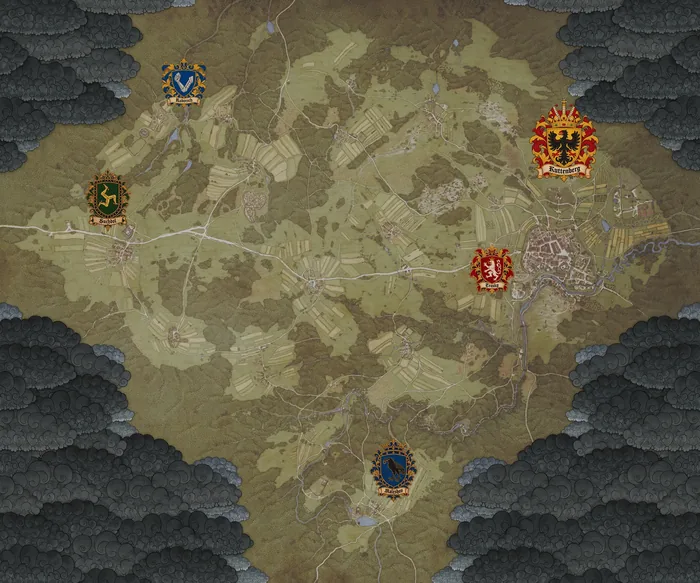
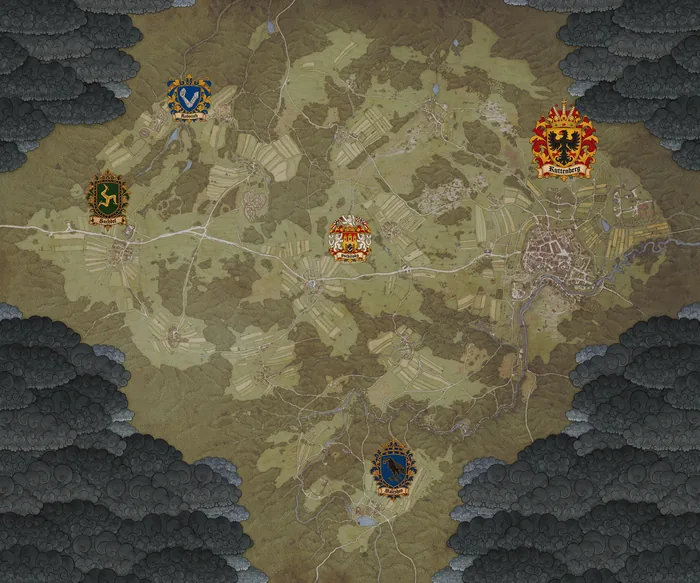
att

Changed region(s): [[0.21, 0.0926, 0.3, 0.2161], [0.66, 0.4014, 0.75, 0.5249], [0.45, 0.3705, 0.54, 0.4631]]

diff --git a/src/app/content/pitch.ts b/src/app/content/pitch.ts
@@ -76,49 +76,52 @@ export const PILLARS: readonly Pillar[] = [
     medium: 'pilar-oficio-1280.webp',
     small: 'pilar-oficio-720.webp',
     width: 2200,
-    height: 1238,
-    position: '50% 50%',
-    alt: 'Ferreiro martelando uma lâmina incandescente na bigorna',
+    height: 1208,
+    // The two riders stand in the left half of the painting; the tree and the far castle on its right are what is cut when the stage is nearly square.
+    position: '12% 50%',
+    alt: 'Dois cavaleiros de armadura galopando por uma estrada de terra sob nuvens de tempestade, com um pássaro no céu e um castelo ao longe',
   },
   {
     id: 'familia',
     label: 'II · Uma família',
     title: 'Funde uma linhagem',
     text: 'Case, tenha herdeiros, adote, reconheça um bastardo. A sua árvore cresce por gerações e herda terras, títulos e inimigos.',
-    large: 'pilar-familia-1920.webp',
+    large: 'pilar-familia-2200.webp',
     medium: 'pilar-familia-1280.webp',
     small: 'pilar-familia-720.webp',
-    // A panorama (2.43 : 1): the three riders stand between a quarter and seven tenths of its width.
-    width: 1920,
-    height: 790,
-    position: '48% 50%',
-    alt: 'Jogadores cavalgando juntos numa estrada de terra entre campos e floresta',
+    // The woman stands at about a third of the painting's width and the knight at the door at four fifths: a nearly square stage keeps both when it is held to the right.
+    width: 2200,
+    height: 1232,
+    position: '86% 50%',
+    alt: 'Uma mulher de vestido vermelho junto à janela, de olhos baixos, enquanto um cavaleiro de armadura deixa o quarto pela porta',
   },
   {
     id: 'teto',
     label: 'III · Um teto',
     title: 'Erga o que é seu',
     text: 'Casas, oficinas e castelos, com portas e baús que só abrem para quem você escolher. O cavalo e a carroça esperam onde você os deixou.',
-    large: 'pilar-teto-1920.webp',
+    large: 'pilar-teto-2200.webp',
     medium: 'pilar-teto-1280.webp',
     small: 'pilar-teto-720.webp',
-    width: 1920,
-    height: 1080,
-    position: '50% 50%',
-    alt: 'Kuttenberg vista do vale, com telhados, muralhas e torres na neblina',
+    width: 2200,
+    height: 1249,
+    // The two towers and the gate stand between a sixth and four fifths of the painting's width.
+    position: '36% 50%',
+    alt: 'Besteiros diante da muralha de um castelo, com uma torre rachada, outra de madeira e um portão de tábuas sob um céu cinzento',
   },
   {
     id: 'coroa',
     label: 'IV · Uma coroa',
     title: 'Escolha um lado',
     text: 'Duas facções disputam o reino, o Leão e o Corvo. Jurar lealdade é escolher um lado, e a escolha não tem volta.',
-    large: 'pilar-coroa-2200.webp',
+    large: 'pilar-coroa-1920.webp',
     medium: 'pilar-coroa-1280.webp',
     small: 'pilar-coroa-720.webp',
-    width: 2200,
-    height: 1255,
-    position: '50% 50%',
-    alt: 'Duelo de cavaleiros num pátio de castelo, observado pela nobreza',
+    // A banner (3 : 1): the two fighters stand in its left half, so a nearly square stage is held to the left.
+    width: 1920,
+    height: 636,
+    position: '10% 50%',
+    alt: 'Duelo entre um guerreiro cumano de escudo vermelho e um cavaleiro de armadura, entre poeira e nuvens',
   },
 ];
 
@@ -131,24 +134,24 @@ export const SHOTS: readonly Shot[] = [
     small: 'galeria-floresta-720.webp',
     sizes: '(max-width: 60rem) 100vw, 800px',
     width: 1600,
-    height: 900,
-    alt: 'Besta apontada para um cervo numa floresta enevoada',
+    height: 895,
+    alt: 'Um cavaleiro de armadura descansa sob uma grande árvore, com a espada ao lado, e um corvo pousa no escudo de um soldado caído na relva',
     caption: 'Florestas',
     text: 'A floresta alimenta quem sabe ler os seus rastros.',
     position: '50% 50%',
   },
   {
-    id: 'mercado',
-    large: 'galeria-mercado-1600.webp',
-    medium: 'galeria-mercado-1200.webp',
-    small: 'galeria-mercado-720.webp',
+    id: 'estrada',
+    large: 'galeria-estrada-1600.webp',
+    medium: 'galeria-estrada-1200.webp',
+    small: 'galeria-estrada-720.webp',
     // The frame is 4 : 5 (519 x 649 on a desktop): the picture fills it by its height, so it is drawn about 1160 px wide, and on a phone twice the screen's width.
     sizes: '(max-width: 60rem) 200vw, 1160px',
     width: 1600,
-    height: 900,
-    alt: 'Praça de mercado ao entardecer com barracas e casas de fachada gótica',
-    caption: 'Mercados',
-    text: 'Todo boato tem dono, e preço.',
-    position: '40% 50%',
+    height: 883,
+    alt: 'Uma carroça coberta segue por uma estrada de terra ao entardecer, entre muros de pedra, com ruínas sobre um morro no horizonte',
+    caption: 'Estradas',
+    text: 'Toda estrada tem dono, e preço.',
+    position: '78% 50%',
   },
 ];

diff --git a/src/app/content/join.ts b/src/app/content/join.ts
@@ -23,6 +23,6 @@ export const JOIN_STEPS: readonly Step[] = [
   {
     numeral: '03',
     title: 'Nasça plebeu.',
-    text: 'Crie seu personagem e escolha onde nasce: os Leões, em Suchdol, ou os Corvos, em Malešov. Depois procure um escrivão ou um mestre de ofício: é ele quem cede a sua guilda.',
+    text: 'Crie seu personagem e escolha onde nasce: os Leões, em Suchdol, ou os Corvos, em Malešov. Depois vá ao comerciante da guilda que quer, na sua cidade: o primeiro ofício é de graça. Um escrivão ou um mestre de ofício também podem ceder a guilda.',
   },
 ];

diff --git a/src/app/content/content.spec.ts b/src/app/content/content.spec.ts
@@ -36,7 +36,7 @@ describe('content', () => {
   });
 
   it('shows the game in two pictures of its own, each in two sizes with a description and a few words', () => {
-    expect(SHOTS.map((shot) => shot.id)).toEqual(['floresta', 'mercado']);
+    expect(SHOTS.map((shot) => shot.id)).toEqual(['floresta', 'estrada']);
     expect(unique(SHOTS.flatMap((shot) => [shot.large, shot.small]))).toBe(true);
     for (const shot of SHOTS) {
       expect(shot.large).toMatch(/^galeria-[a-z]+-1600\.webp$/);

diff --git a/src/app/sections/lore/lore.html b/src/app/sections/lore/lore.html
@@ -18,7 +18,7 @@
             sizes="(max-width: 60rem) 100vw, 50vw"
             width="1200"
             height="1000"
-            alt="Mapa da região de Kuttenberg com os brasões de Raborsch, Suchdol, Trosky, Kuttenberg e Maleshov"
+            alt="Mapa da região de Kuttenberg com os brasões de Raborsch, Suchdol, Pschitoky, Kuttenberg e Malešov"
             loading="lazy"
             decoding="async"
           />

diff --git a/tools/make-story-images.py b/tools/make-story-images.py
@@ -1,0 +1,77 @@
+"""Builds the pictures of the site's cards from the user's paintings (2026-10-31, the user: "substitua as imagens do site dos cards ... e use essas imagens da pasta nova imagem", and
+then: "era só para substituir as imagens dos cards e texto mesmo, não das imagens de fundo das seções"): the four lines of the realm and the two pictures of the gallery. The pictures
+that stand behind a section (the opening, the way in) and the link card are not touched.
+
+    python tools/make-story-images.py [the folder of the paintings]        (by default ../nova imagem, beside the site)
+
+Which painting stands where is in `SLOTS` below. Each picture is made at the widths the page's `srcset` names (the page picks the smallest that is sharp on the screen): never wider
+than the painting is, so that nothing is stretched. Deterministic: the same paintings give the same files. The old pictures that nothing names any more are deleted at the end (`STALE`).
+The crests, the icons and the map are made by `make-landing-images.py` and `make-map.py`.
+"""
+
+import os
+import sys
+
+from PIL import Image
+
+Image.MAX_IMAGE_PIXELS = None
+
+HERE = os.path.dirname(os.path.abspath(__file__))
+ROOT = os.path.join(HERE, "..")
+IMG = os.path.join(ROOT, "public", "img")
+SRC = sys.argv[1] if len(sys.argv) > 1 else os.path.join(ROOT, "..", "nova imagem")
+
+# name of the files (`<name>-<width>.webp`), the painting, the widths, the quality, and what to cut away first (left, top, right, bottom, in the painting's pixels).
+SLOTS = [
+    # The four lines of the realm, in the order they are told.
+    ("pilar-oficio", "cavalgando.png", [720, 1280, 2200], 88, None),
+    ("pilar-familia", "korand para a guerra.png", [720, 1280, 2200], 88, None),
+    ("pilar-teto", "ataque a suchdol.png", [720, 1280, 2200], 88, None),
+    # The duel was painted as a banner and put on a black 16:9 page: the black is cut away, with the rough edge of the brush (rows 200 to 836 are all picture).
+    ("pilar-coroa", "urik vs cumanos.png", [720, 1280, 1920], 90, (0, 200, 1920, 836)),
+    # The two pictures of the gallery: the wide one first, the tall one beside it.
+    ("galeria-floresta", "erik vs korand.png", [720, 1200, 1600], 88, None),
+    ("galeria-estrada", "ida embora.png", [720, 1200, 1600], 88, None),
+]
+
+# The pictures of the first landing page that no page names now.
+STALE = [
+    "pilar-coroa-2200.webp",
+    "pilar-familia-1920.webp",
+    "pilar-teto-1920.webp",
+    "galeria-mercado-720.webp",
+    "galeria-mercado-1200.webp",
+    "galeria-mercado-1600.webp",
+]
+
+
+def opened(file, crop):
+    image = Image.open(os.path.join(SRC, file))
+    if image.mode == "RGBA" and image.getchannel("A").getextrema()[0] < 255:
+        print(f"  (the painting {file} has transparent pixels: they are drawn over black)")
+        flat = Image.new("RGB", image.size, (0, 0, 0))
+        flat.paste(image, mask=image.getchannel("A"))
+        image = flat
+    image = image.convert("RGB")
+    return image.crop(crop) if crop else image
+
+
+def save_widths(name, image, widths, quality):
+    for width in widths:
+        if width > image.width:
+            sys.exit(f"{name}: {width} px asked, but the picture is only {image.width} wide")
+        scaled = image if image.width == width else image.resize((width, round(image.height * width / image.width)), Image.LANCZOS)
+        out = os.path.join(IMG, f"{name}-{width}.webp")
+        scaled.save(out, "WEBP", quality=quality, method=6)
+        print(f"  {name}-{width}.webp {scaled.width}x{scaled.height} {os.path.getsize(out) // 1024} KB")
+
+
+for name, file, widths, quality, crop in SLOTS:
+    print(f"{name}  <-  {file}")
+    save_widths(name, opened(file, crop), widths, quality)
+
+for stale in STALE:
+    path = os.path.join(IMG, stale)
+    if os.path.exists(path):
+        os.remove(path)
+        print(f"deleted {stale}")

diff --git a/tools/make-map.py b/tools/make-map.py
@@ -1,0 +1,29 @@
+"""Builds the map of the lore section from the project's own art: ../img/mapa.png (2026-10-31, the user: "o mapa está errado, pegue o mapa da pasta img e substitua do site").
+
+    python tools/make-map.py [the map's original] [output folder]
+
+The map is the region of Kuttenberg with the crests of the five houses laid over it (Raborsch, Suchdol, Pschitoky, Kuttenberg and Malešov); the first one on the site
+had Trosky's crest by Kuttenberg where the corrected art has Pschitoky's in the middle of the land. The original is 4096 x 3413 pixels: one WebP is made at each of
+the widths the page's `srcset` names (700, 1200, 1600), at the quality the pictures of the landing page have. Run it again whenever `mapa.png` changes.
+(`make-landing-images.py` used to make these from the zip of the new identity; it leaves the map to this script now.)
+"""
+
+import sys
+from pathlib import Path
+
+from PIL import Image
+
+HERE = Path(__file__).resolve().parent
+SOURCE = Path(sys.argv[1]) if len(sys.argv) > 1 else HERE.parents[1] / "img" / "mapa.png"
+TARGET = Path(sys.argv[2]) if len(sys.argv) > 2 else HERE.parent / "public" / "img"
+WIDTHS = (1600, 1200, 700)
+QUALITY = 82
+
+Image.MAX_IMAGE_PIXELS = None
+art = Image.open(SOURCE).convert("RGB")
+TARGET.mkdir(parents=True, exist_ok=True)
+for width in WIDTHS:
+    out = TARGET / f"mapa-kuttenberg-{width}.webp"
+    height = round(width * art.height / art.width)
+    art.resize((width, height), Image.LANCZOS).save(out, format="WEBP", quality=QUALITY, method=6)
+    print(f"{out.name:28} {width:5}x{height:<5} {out.stat().st_size / 1024:7.1f} KB")

diff --git a/tools/make-landing-images.py b/tools/make-landing-images.py
@@ -80,13 +80,8 @@ def wide(key, name, widths, quality=82):
 
 # The photographs, in the original's own size and one or two smaller (the page picks one by `srcset`).
 wide("hero", "hero", ["full", 1920, 960])
-wide("oficio", "pilar-oficio", ["full", 1280, 720])
-wide("familia", "pilar-familia", ["full", 1280, 720])
-wide("teto", "pilar-teto", ["full", 1280, 720])
-wide("coroa", "pilar-coroa", ["full", 1280, 720])
-wide("floresta", "galeria-floresta", ["full", 1200, 720])
-wide("mercado", "galeria-mercado", ["full", 1200, 720])
-wide("mapa", "mapa-kuttenberg", [1600, 1200, 700])
+# The pictures of the cards (the four lines of the realm and the two of the gallery) are made by tools/make-story-images.py from the user's own paintings (2026-10-31); the zip's are not used.
+# The map is made by tools/make-map.py from the project's own mapa.png (2026-10-31: the zip's had the wrong crest by Kuttenberg, Trosky's, where Pschitoky's belongs).
 wide("entrar", "entrar", ["full", 960])
 
 # The crests keep their transparency.
